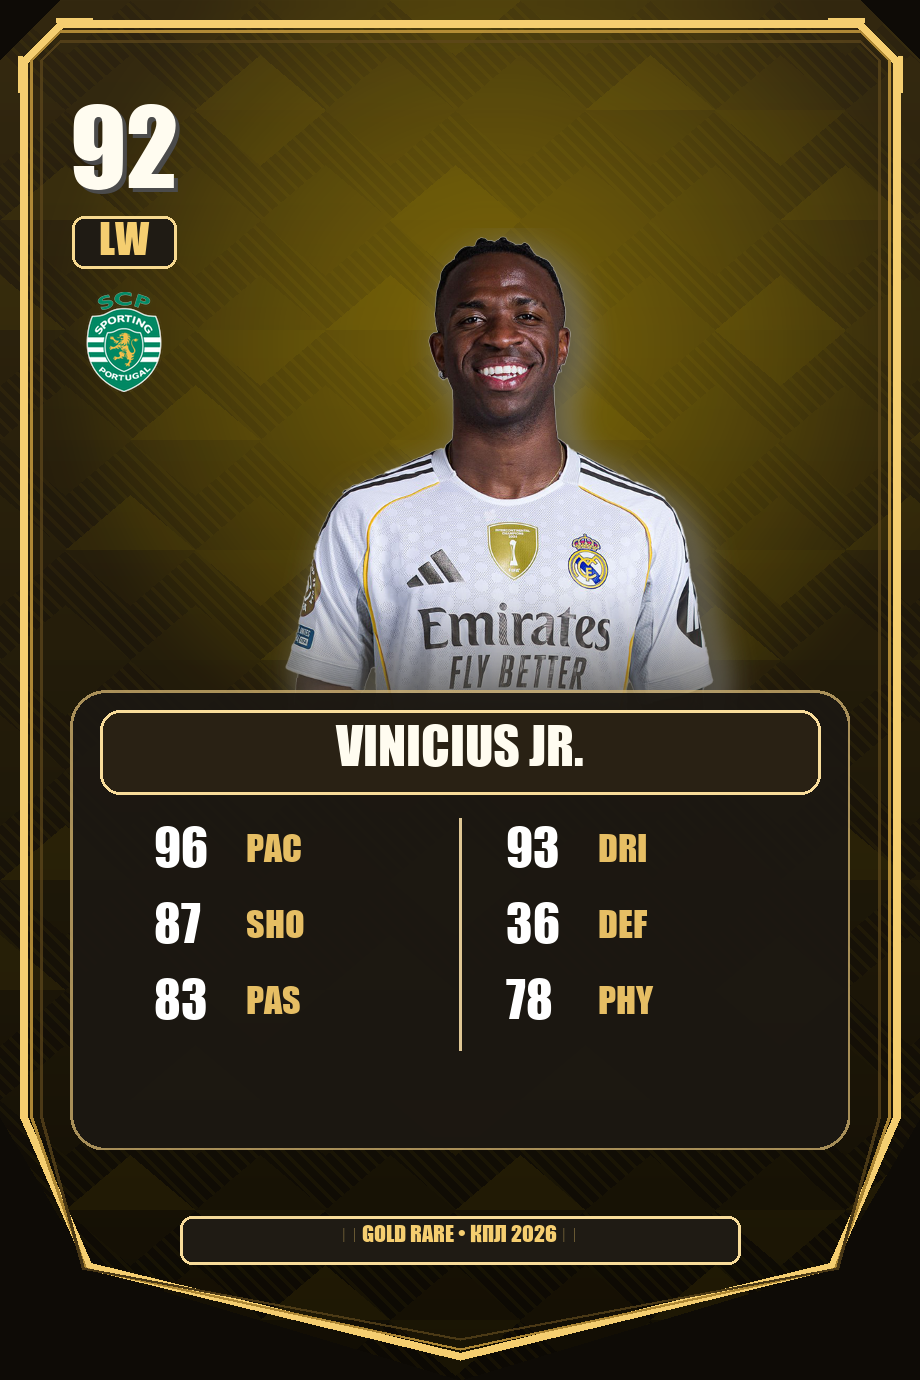
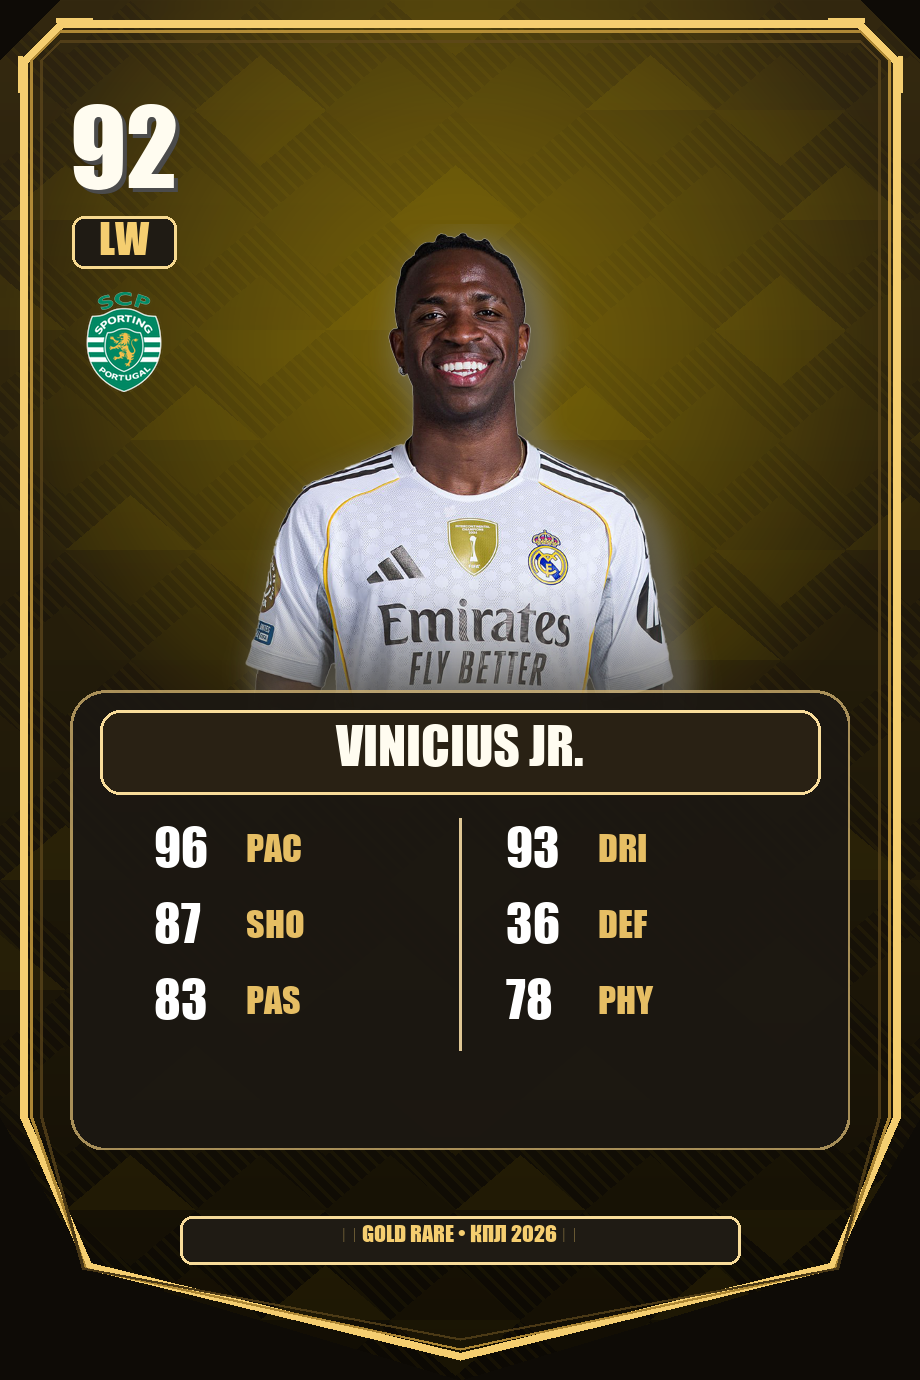
feat: center player cutout and spotlight exactly in the middle of EA FC card

Changed region(s): [[0.2435, 0.1558, 0.8217, 0.4986]]

diff --git a/fc_card_generator.py b/fc_card_generator.py
@@ -345,10 +345,10 @@ def generate_ea_fc_card(player_data: dict, theme_name: str = "gold_rare") -> io.
         b = int(top_b + (bot_b - top_b) * ratio)
         bg_draw.line([(0, y), (WIDTH, y)], fill=(r, g, b, 255))
 
-    # 3. Add Dynamic Radial Burst Glow behind player (depth & illumination)
-    spotlight_x = int(WIDTH * 0.54)
+    # 3. Add Dynamic Radial Burst Glow behind player (depth & illumination in true center)
+    spotlight_x = WIDTH // 2
     spotlight_y = int(HEIGHT * 0.25)
-    spotlight = draw_radial_spotlight((WIDTH, HEIGHT), (spotlight_x, spotlight_y), int(230 * SCALE), theme["spotlight"])
+    spotlight = draw_radial_spotlight((WIDTH, HEIGHT), (spotlight_x, spotlight_y), int(240 * SCALE), theme["spotlight"])
     bg_gradient = Image.alpha_composite(bg_gradient, spotlight)
 
     # 4. Add Carbon Weave & Crystal Facets
@@ -360,11 +360,10 @@ def generate_ea_fc_card(player_data: dict, theme_name: str = "gold_rare") -> io.
     card.paste(bg_gradient, (0, 0), shield_mask)
 
     # 6. Player Photo Rendering with Dynamic Drop Shadow & Smooth Base Fade
-    # Scaled up for majestic presence and centered across the card
-    photo_box_w = int(350 * SCALE)
+    # Centered directly in the middle of the card with enlarged scale
+    photo_box_w = int(380 * SCALE)
     photo_box_h = int(350 * SCALE)
-    photo_x = int(75 * SCALE)
-    photo_y = int(18 * SCALE)
+    photo_top_y = int(16 * SCALE)
 
     player_img = None
     try:
@@ -387,8 +386,9 @@ def generate_ea_fc_card(player_data: dict, theme_name: str = "gold_rare") -> io.
             shadow.paste(shadow_fill, (int(10 * SCALE), int(10 * SCALE)), shadow_mask)
             shadow = shadow.filter(ImageFilter.GaussianBlur(int(8 * SCALE)))
 
-            px = photo_x + (photo_box_w - pw) // 2
-            py = photo_y + (photo_box_h - ph)
+            # Exactly centered horizontally on the entire card width
+            px = (WIDTH - pw) // 2
+            py = photo_top_y + (photo_box_h - ph)
             card.paste(shadow, (px - int(4 * SCALE), py - int(4 * SCALE)), shadow)
 
             # Smooth vertical gradient alpha fade at the torso baseline
@@ -407,20 +407,20 @@ def generate_ea_fc_card(player_data: dict, theme_name: str = "gold_rare") -> io.
         except Exception as e:
             logger.warning(f"Error drawing player photo: {e}")
     else:
-        # High quality geometric athlete silhouette placeholder
-        sil_layer = Image.new("RGBA", (photo_box_w, photo_box_h), (0, 0, 0, 0))
+        # High quality geometric athlete silhouette placeholder in exact center
+        sil_layer = Image.new("RGBA", (WIDTH, photo_box_h), (0, 0, 0, 0))
         sil_draw = ImageDraw.Draw(sil_layer)
-        sc_x = photo_box_w // 2
-        head_r = int(42 * SCALE)
-        sil_draw.ellipse([(sc_x - head_r, int(22 * SCALE)), (sc_x + head_r, int(22 * SCALE) + 2 * head_r)], fill=theme["border_outer"] + (65,))
+        sc_x = WIDTH // 2
+        head_r = int(44 * SCALE)
+        sil_draw.ellipse([(sc_x - head_r, int(20 * SCALE)), (sc_x + head_r, int(20 * SCALE) + 2 * head_r)], fill=theme["border_outer"] + (65,))
         torso_poly = [
-            (sc_x - int(100 * SCALE), photo_box_h),
-            (sc_x - int(75 * SCALE), int(115 * SCALE)),
-            (sc_x + int(75 * SCALE), int(115 * SCALE)),
-            (sc_x + int(100 * SCALE), photo_box_h),
+            (sc_x - int(105 * SCALE), photo_box_h),
+            (sc_x - int(80 * SCALE), int(115 * SCALE)),
+            (sc_x + int(80 * SCALE), int(115 * SCALE)),
+            (sc_x + int(105 * SCALE), photo_box_h),
         ]
         sil_draw.polygon(torso_poly, fill=theme["border_outer"] + (55,))
-        card.paste(sil_layer, (photo_x, photo_y), sil_layer)
+        card.paste(sil_layer, (0, photo_top_y), sil_layer)
 
     # 7. Frosted Glass Stat Plate for bottom half
     plate_w = int(390 * SCALE)
